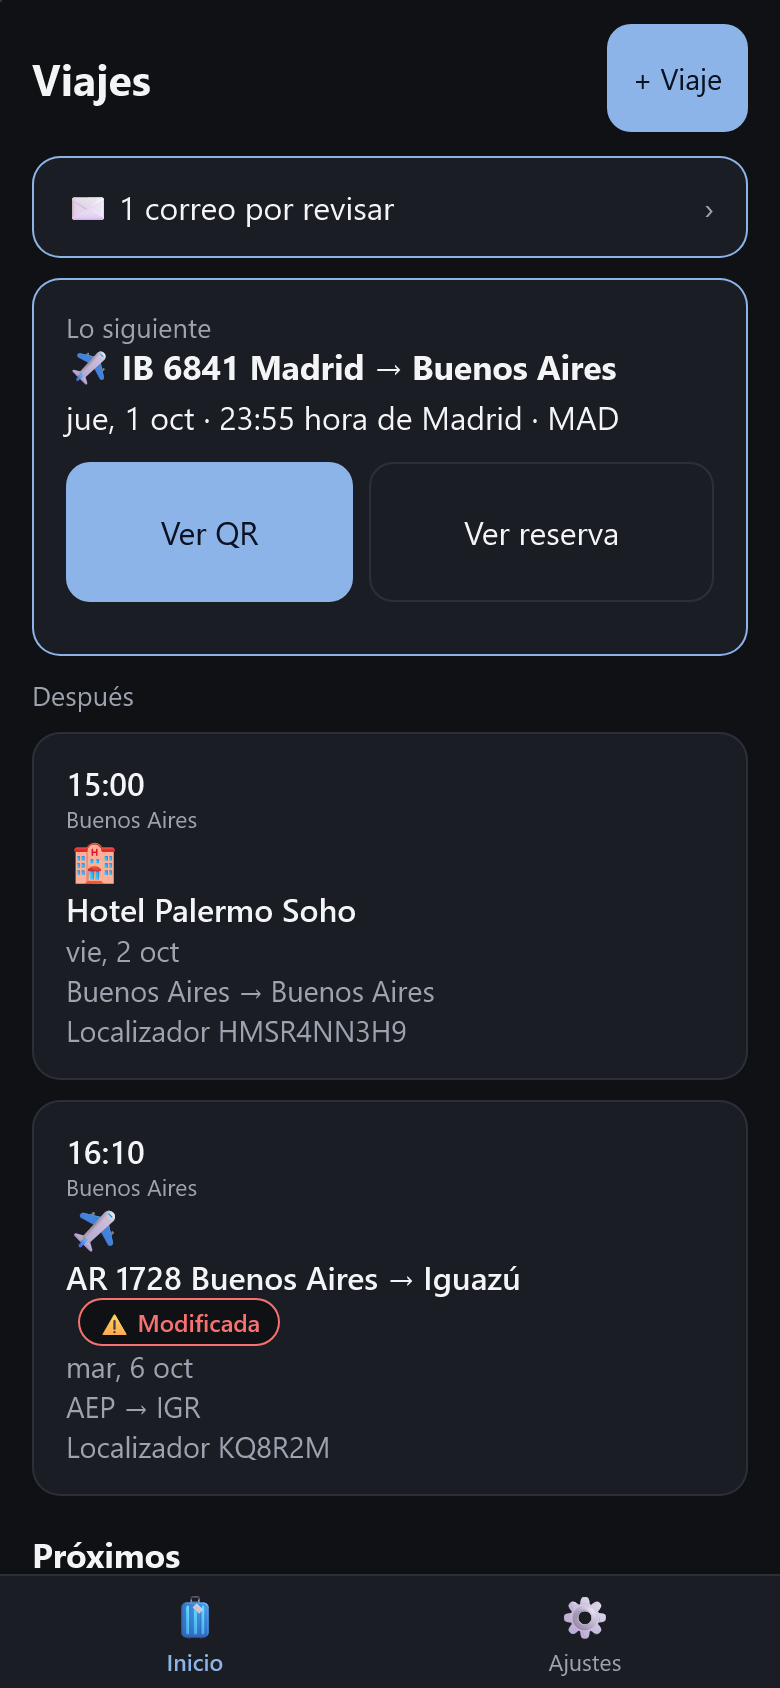
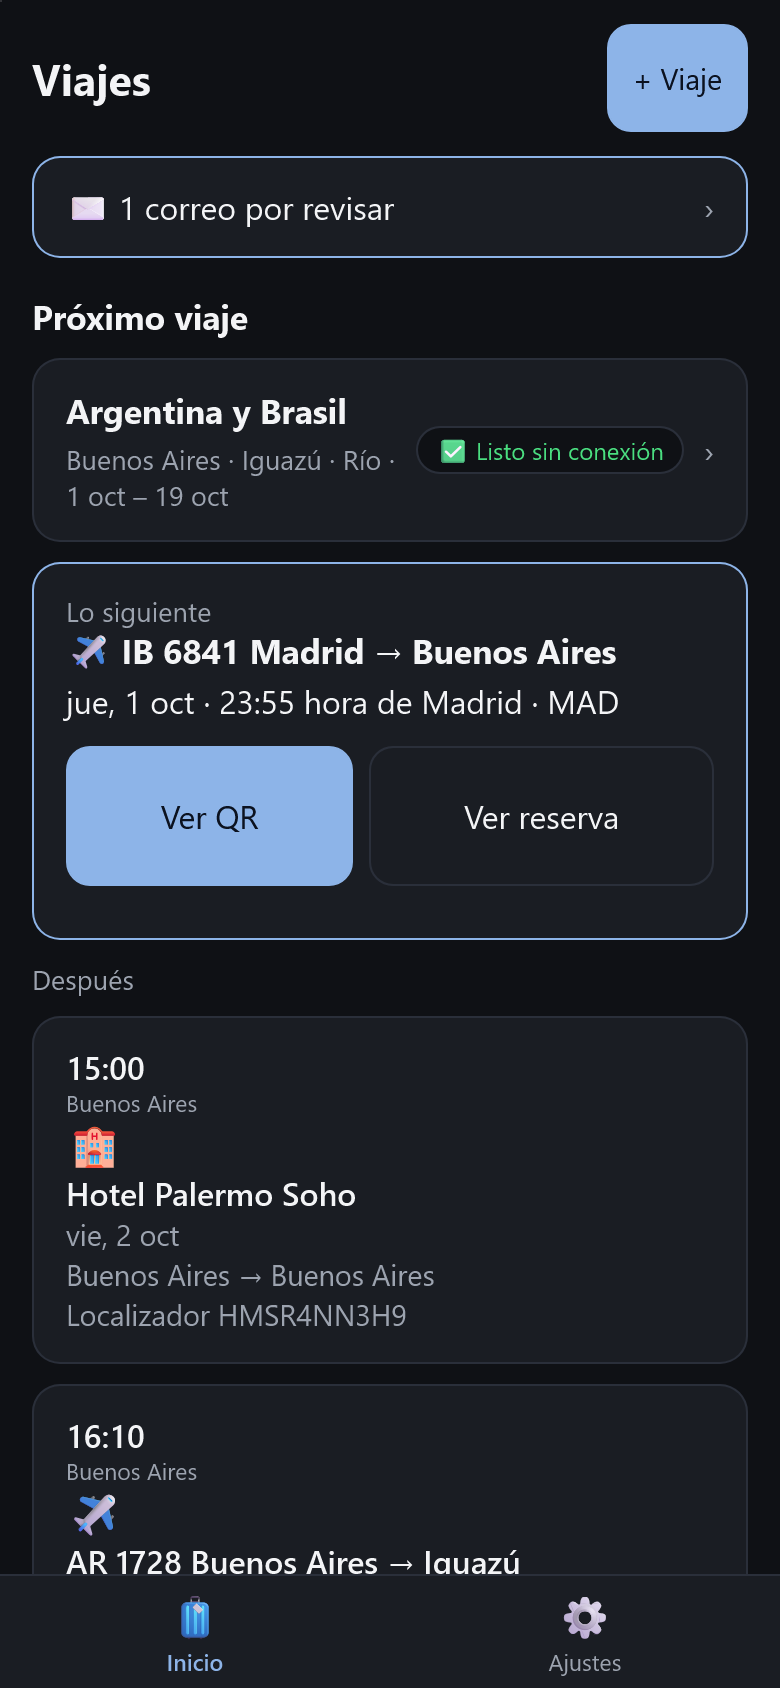
Home: the current trip's bookings live on the home screen (next one highlighted, two more, expand all by day); past trips in a collapsed 'Histórico' by year marked 'Realizado' in orange; guide updated with new screenshots

diff --git a/web/src/pages/HomePage.tsx b/web/src/pages/HomePage.tsx
@@ -1,73 +1,166 @@
+import { useState } from 'react';
 import { Link } from 'react-router-dom';
-import { formatDay, formatRange, timeOf, zoneLabel } from '../data/localTime';
-import { listAllBookings, listAttachments, listInbox, listTrips } from '../data/repo';
+import { BookingCard } from '../components/BookingCard';
+import { OfflineBadge, useTripOffline } from '../components/OfflineBadge';
+import { formatDay, formatLongDay, formatRange, timeOf, zoneLabel } from '../data/localTime';
+import { listAttachments, listBookings, listInbox, listTrips } from '../data/repo';
 import { useSyncStatus } from '../data/syncClient';
 import type { Trip } from '../data/types';
 import { useLiveQuery } from '../data/useLive';
-import { sortTrips, todayLocal, TYPE_INFO, upcomingBookings } from '../domain/agenda';
-import { BookingCard } from '../components/BookingCard';
-import { OfflineBadge, useTripOffline } from '../components/OfflineBadge';
+import { groupByDay, sortTrips, todayLocal, TYPE_INFO, upcomingBookings } from '../domain/agenda';
 
-function TripCard({ trip, highlight = false }: { trip: Trip; highlight?: boolean }) {
+function TripCard({ trip, done = false }: { trip: Trip; done?: boolean }) {
   const offline = useTripOffline(trip);
   return (
-    <Link className={`card${highlight ? ' highlight' : ''}`} to={`/trips/${trip.id}`}>
+    <Link className={`card${done ? ' done' : ''}`} to={`/trips/${trip.id}`}>
       <div className="row between">
         <div className="grow">
-          <h3>{trip.title}</h3>
+          <h3>
+            {trip.title}
+            {done && <span className="badge done">Realizado</span>}
+          </h3>
           <div className="muted small">
             {[trip.destination, formatRange(trip.startDate, trip.endDate)].filter(Boolean).join(' · ')}
           </div>
         </div>
-        <OfflineBadge state={offline} />
+        {!done && <OfflineBadge state={offline} />}
       </div>
     </Link>
   );
 }
 
-function NextUp() {
-  const upcoming = useLiveQuery(async () => {
-    const bookings = upcomingBookings(await listAllBookings(), Date.now(), 3);
-    return Promise.all(
-      bookings.map(async (booking) => ({ booking, qr: (await listAttachments(booking.id)).some((a) => a.qrText) })),
-    );
-  }, []);
-
-  if (!upcoming || upcoming.length === 0) {
+/** Los viajes realizados, plegados al final y agrupados por año, del más reciente al más antiguo. */
+function History({ trips }: { trips: Trip[] }) {
+  const [open, setOpen] = useState(false);
+  if (trips.length === 0) {
     return null;
   }
-  const [{ booking, qr }, ...rest] = upcoming;
-  const info = TYPE_INFO[booking.type];
+  const years = new Map<string, Trip[]>();
+  for (const trip of trips) {
+    const year = (trip.endDate ?? trip.startDate ?? '').slice(0, 4) || 'Sin fecha';
+    years.set(year, [...(years.get(year) ?? []), trip]);
+  }
   return (
     <>
-      <section className="card highlight">
-        <div className="muted small">Lo siguiente</div>
-        <h3>
-          {info.icon} {booking.title}
-        </h3>
-        {booking.changeNote && <div className="error small" style={{ whiteSpace: 'pre-line' }}>⚠ {booking.changeNote}</div>}
-        <div>
-          {formatDay(booking.startLocal)} · {timeOf(booking.startLocal)} hora de {zoneLabel(booking.startTz)}
-          {booking.startPlace && ` · ${booking.startPlace}`}
+      <h2>Histórico</h2>
+      {!open ? (
+        <button className="btn block" type="button" onClick={() => setOpen(true)}>
+          Ver el histórico ({trips.length} {trips.length === 1 ? 'viaje realizado' : 'viajes realizados'})
+        </button>
+      ) : (
+        <>
+          {[...years.entries()].map(([year, list]) => (
+            <section key={year}>
+              <div className="year">{year}</div>
+              {list.map((trip) => (
+                <TripCard key={trip.id} trip={trip} done />
+              ))}
+            </section>
+          ))}
+          <button className="btn block" type="button" onClick={() => setOpen(false)}>
+            Plegar el histórico
+          </button>
+        </>
+      )}
+    </>
+  );
+}
+
+const PREVIEW = 3;
+
+/**
+ * El viaje que toca, entero en Inicio: cabecera (enlace al viaje para editarlo o guardarlo en el móvil), la próxima
+ * reserva destacada con su QR, las dos siguientes y, plegadas, todas las reservas del viaje por días.
+ */
+function CurrentTrip({ trip, inProgress }: { trip: Trip; inProgress: boolean }) {
+  const offline = useTripOffline(trip);
+  const [expanded, setExpanded] = useState(false);
+  const data = useLiveQuery(async () => {
+    const bookings = await listBookings(trip.id);
+    const upcoming = upcomingBookings(bookings, Date.now(), PREVIEW);
+    const next = upcoming[0];
+    const qr = next ? (await listAttachments(next.id)).some((a) => a.qrText) : false;
+    return { bookings, upcoming, qr };
+  }, [trip.id]);
+
+  if (!data) {
+    return null;
+  }
+  const { bookings, upcoming, qr } = data;
+  const [next, ...after] = upcoming;
+  const info = next ? TYPE_INFO[next.type] : null;
+  const hidden = bookings.length - upcoming.length;
+
+  return (
+    <>
+      <h2>{inProgress ? 'Viaje en curso' : 'Próximo viaje'}</h2>
+      <Link className="card" to={`/trips/${trip.id}`}>
+        <div className="row between">
+          <div className="grow">
+            <h3>{trip.title}</h3>
+            <div className="muted small">
+              {[trip.destination, formatRange(trip.startDate, trip.endDate)].filter(Boolean).join(' · ')}
+            </div>
+          </div>
+          <OfflineBadge state={offline} />
+          <span className="muted">›</span>
         </div>
-        <div className="actions">
-          {qr && (
-            <Link className="btn primary" to={`/bookings/${booking.id}/qr`}>
-              Ver QR
+      </Link>
+
+      {next && info && (
+        <section className="card highlight">
+          <div className="muted small">Lo siguiente</div>
+          <h3>
+            {info.icon} {next.title}
+          </h3>
+          {next.changeNote && <div className="error small" style={{ whiteSpace: 'pre-line' }}>⚠ {next.changeNote}</div>}
+          <div>
+            {formatDay(next.startLocal)} · {timeOf(next.startLocal)} hora de {zoneLabel(next.startTz)}
+            {next.startPlace && ` · ${next.startPlace}`}
+          </div>
+          <div className="actions">
+            {qr && (
+              <Link className="btn primary" to={`/bookings/${next.id}/qr`}>
+                Ver QR
+              </Link>
+            )}
+            <Link className="btn" to={`/bookings/${next.id}`}>
+              Ver reserva
             </Link>
-          )}
-          <Link className="btn" to={`/bookings/${booking.id}`}>
-            Ver reserva
-          </Link>
-        </div>
-      </section>
-      {rest.length > 0 && (
+          </div>
+        </section>
+      )}
+
+      {bookings.length === 0 && (
+        <p className="muted small">
+          Este viaje no tiene reservas todavía.{' '}
+          <Link to={`/trips/${trip.id}/bookings/new`}>Añadir la primera</Link>
+        </p>
+      )}
+
+      {!expanded && after.length > 0 && (
         <>
           <div className="muted small" style={{ margin: '4px 0' }}>Después</div>
-          {rest.map((item) => (
-            <BookingCard key={item.booking.id} booking={item.booking} showDay={formatDay(item.booking.startLocal)} />
+          {after.map((booking) => (
+            <BookingCard key={booking.id} booking={booking} showDay={formatDay(booking.startLocal)} />
           ))}
         </>
+      )}
+
+      {expanded &&
+        groupByDay(bookings).map((day) => (
+          <section key={day.date}>
+            <div className="day">{formatLongDay(day.date)}</div>
+            {day.bookings.map((booking) => (
+              <BookingCard key={booking.id} booking={booking} />
+            ))}
+          </section>
+        ))}
+
+      {bookings.length > 0 && (hidden > 0 || expanded) && (
+        <button className="btn block" type="button" onClick={() => setExpanded(!expanded)}>
+          {expanded ? 'Mostrar menos' : `Ver las ${bookings.length} reservas del viaje por días`}
+        </button>
       )}
     </>
   );
@@ -79,7 +172,7 @@ export function HomePage() {
   const sync = useSyncStatus();
   const today = todayLocal();
   const sorted = trips ? sortTrips(trips, today) : null;
-  // El viaje que toca (en curso, o el más cercano) va arriba del todo; los demás, debajo de «Lo siguiente».
+  // El viaje que toca (en curso, o el más cercano) va arriba con sus reservas; los demás, debajo.
   const [current, ...others] = sorted?.active ?? [];
   const inProgress = !!current && !!current.startDate && current.startDate <= today && (!current.endDate || current.endDate >= today);
 
@@ -107,13 +200,7 @@ export function HomePage() {
           </div>
         </Link>
       )}
-      {current && (
-        <>
-          <h2>{inProgress ? 'Viaje en curso' : 'Próximo viaje'}</h2>
-          <TripCard trip={current} highlight />
-        </>
-      )}
-      <NextUp />
+      {current && <CurrentTrip trip={current} inProgress={inProgress} />}
       {sorted && sorted.active.length === 0 && sorted.past.length === 0 && (
         <div className="empty">
           <p>Todavía no hay viajes.</p>
@@ -130,14 +217,7 @@ export function HomePage() {
           ))}
         </>
       )}
-      {sorted && sorted.past.length > 0 && (
-        <>
-          <h2>Pasados</h2>
-          {sorted.past.map((trip) => (
-            <TripCard key={trip.id} trip={trip} />
-          ))}
-        </>
-      )}
+      {sorted && <History trips={sorted.past} />}
     </main>
   );
 }

diff --git a/web/src/pages/GuidePage.tsx b/web/src/pages/GuidePage.tsx
@@ -49,18 +49,29 @@ export function GuidePage() {
         <h3>2. Inicio</h3>
         <ul className="small">
           <li>
-            <strong>Lo siguiente</strong>: la próxima reserva con sus botones <strong>Ver QR</strong> y <strong>Ver reserva</strong>, y debajo
-            las dos siguientes. Tocando una se abre.
+            Arriba, el <strong>viaje en curso</strong> (o el próximo): tocando su tarjeta se abre el viaje para editarlo, añadir reservas o
+            guardarlo en el móvil.
           </li>
           <li>
-            <strong>Próximos</strong> y <strong>Pasados</strong>: los viajes. Con <strong>+ Viaje</strong> creas uno (título, destino y fechas).
+            Debajo, <strong>Lo siguiente</strong>: la próxima reserva de ese viaje con sus botones <strong>Ver QR</strong> y{' '}
+            <strong>Ver reserva</strong>, y las dos siguientes. Con <strong>Ver las N reservas del viaje por días</strong> se despliegan
+            todas sin salir de Inicio; <strong>Mostrar menos</strong> las vuelve a plegar.
+          </li>
+          <li>
+            <strong>Más adelante</strong>: los demás viajes por venir. Con <strong>+ Viaje</strong> creas uno (título, destino y fechas).
+          </li>
+          <li>
+            <strong>Histórico</strong>, al final: los viajes ya realizados, plegados y agrupados por año, marcados en naranja como
+            «Realizado». Se abren igual para consultar sus reservas y billetes.
           </li>
           <li>
             Si aparece <strong>«N correos por revisar»</strong>, han llegado correos de reservas que esperan que alguien los confirme
             (apartado 5).
           </li>
         </ul>
-        <Shot file="01-inicio.png" caption="Inicio: correos por revisar, lo siguiente y los viajes." />
+        <Shot file="01-inicio.png" caption="Inicio: correos por revisar, el viaje en curso, lo siguiente y el botón para desplegar todas sus reservas." />
+        <Shot file="14-inicio-desplegado.png" caption="Con las reservas del viaje desplegadas por días, sin salir de Inicio." />
+        <Shot file="15-historico.png" caption="El histórico al final: viajes realizados por año, en naranja." />
       </section>
 
       <section className="card">

diff --git a/web/src/app/theme.css b/web/src/app/theme.css
@@ -264,3 +264,8 @@ button.secondary { background: transparent; border: 1px solid var(--border); }
 .guide-shot img { display: block; width: 100%; max-width: 320px; margin: 0 auto; border: 1px solid var(--border); border-radius: 18px; }
 .guide-shot figcaption { text-align: center; font-size: 0.8rem; color: var(--muted); margin-top: 6px; }
 .guide-shot.wide img { max-width: 100%; border-radius: 12px; }
+
+/* Histórico: viajes realizados, en naranja y plegados al final de Inicio. */
+.card.done { border-left: 4px solid var(--warn); }
+.badge.done { color: var(--warn); border-color: var(--warn); margin-left: 6px; }
+.year { font-size: 0.8rem; color: var(--muted); margin: 12px 0 4px; text-transform: uppercase; letter-spacing: 0.04em; }
